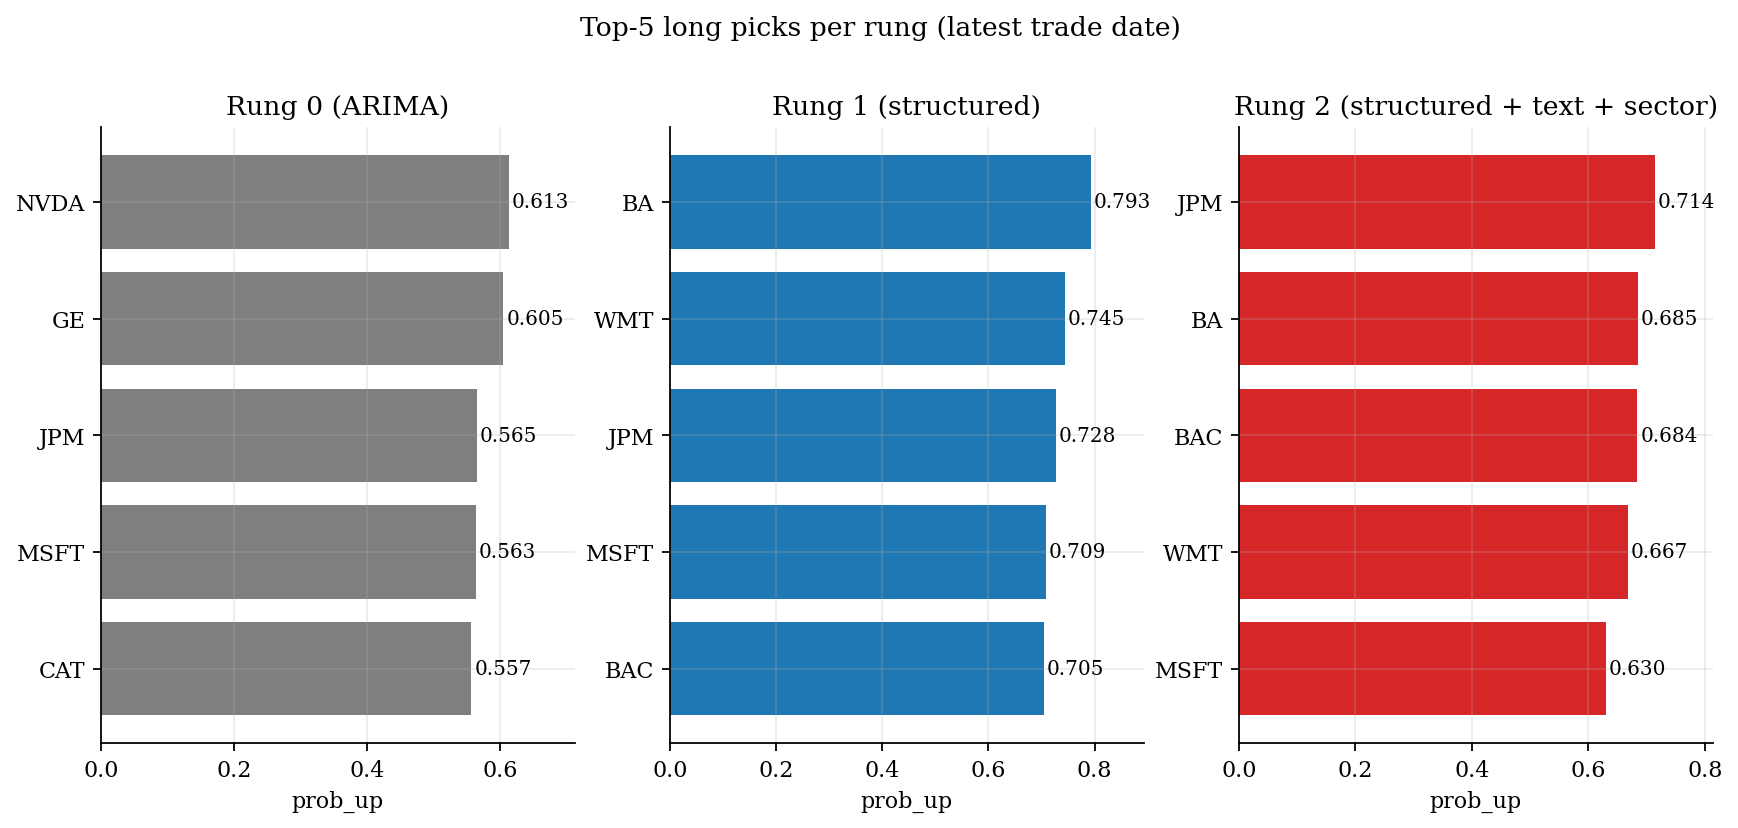
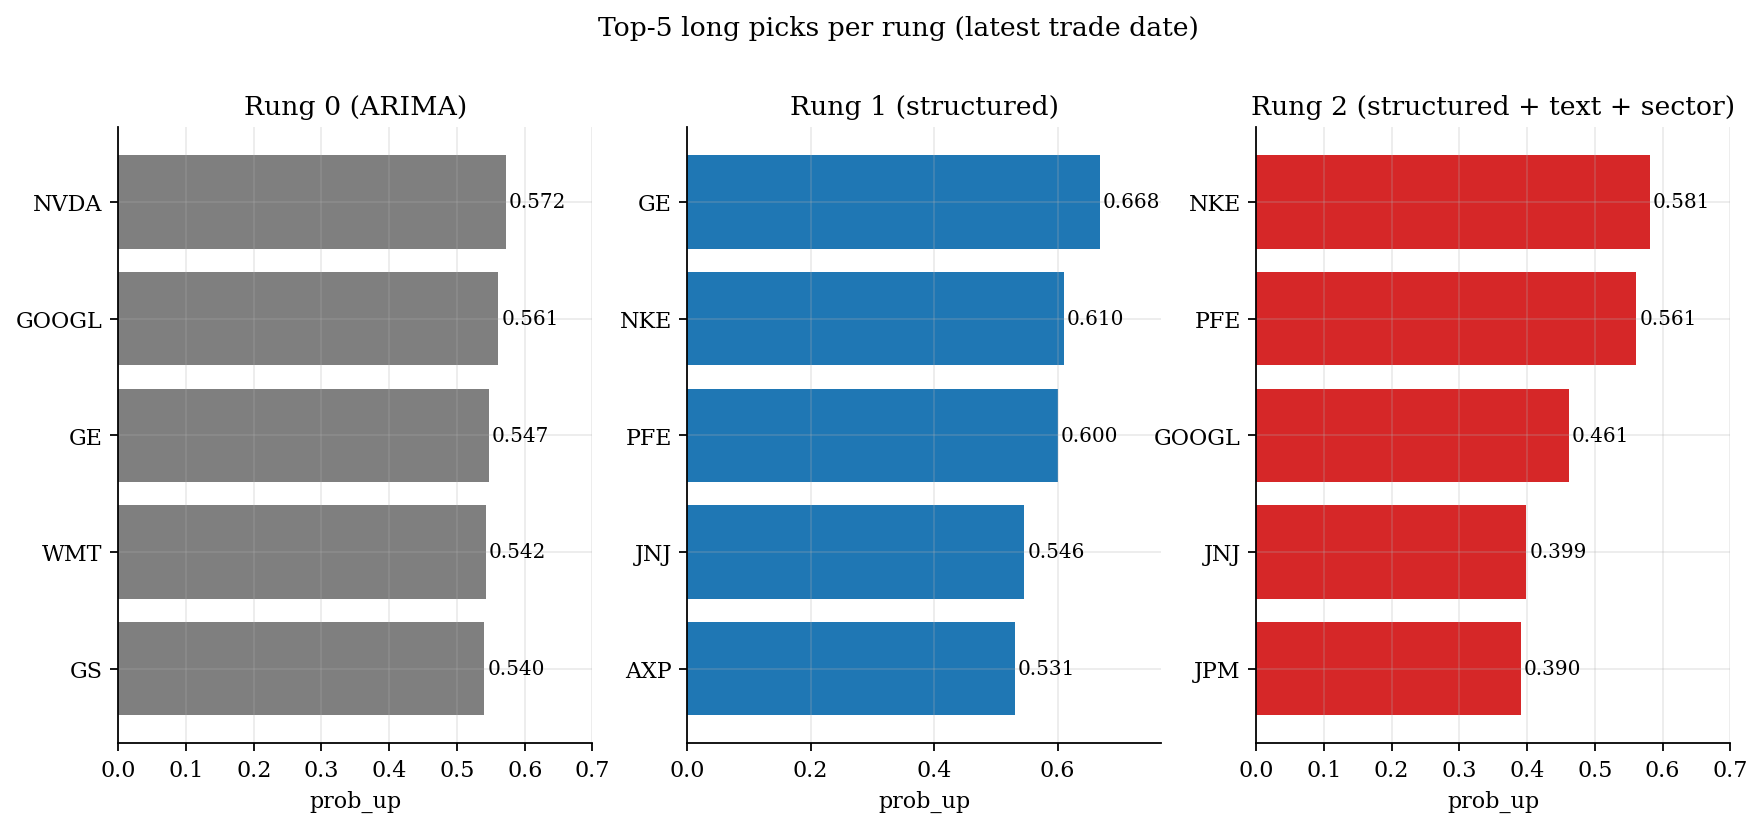
extend(data): pipeline window 2025-12-31 -> 2026-04-30; ARIMA fit-once efficiency
Window extension:
- config/universe.yaml end_date -> 2026-04-30
- ingest/fetch_prices.py end -> 2026-05-01 (includes the closing day)
- ingest/fetch_fundamentals.py limit 20 -> 24 quarters so Q1 2026 lands
- ingest/fetch_news.py limit 200 -> 500 to capture more recent articles
- dbt/models/gold/dim_date.sql generate_series end -> 2026-04-30
- dbt/models/gold/_gold__schema.yml description updated
- models/walkforward.py end -> 2026-04-30 (yields 14 folds: 13 full + 1 partial)

ARIMA correctness + efficiency in models/rung0_arima.py:
- Added DELETE WHERE model_rung = 0 at top of main() so re-runs are idempotent
  (same fix Rung 1 + Rung 2 already had)
- Split predict_5d_direction into fit_arima + predict_from_fitted; the inner
  loop now fits ARIMA ONCE per (stock, fold) and reuses the model for all
  test rows in that fold. Speedup: ~20x for the same predictions (no design
  change - the prior code refit on the same training data each row).

Headline numbers from the 14-fold rebuild (2024-Q1 to 2026-Q2 OOS):
  Rung 0 (ARIMA):       AUC 0.5116, cum return +70.2%, Sharpe 2.33
  Rung 1 (15 + 5 fund): AUC 0.5159, cum return +94.0%, Sharpe 1.56
  Rung 2 (44 features): AUC 0.5238, cum return +129.6%, Sharpe 1.95
  Equal-weight benchmark:           cum return +65.3%

  Paired Wilcoxon (R2 - R1) over 14 folds: +0.0078, p = 0.36 (not significant)
  Both rungs beat the benchmark (R2 by 64pp, R1 by 29pp linear).

Six BI figures regenerated in backtest/figures/.

diff --git a/models/rung0_arima.py b/models/rung0_arima.py
@@ -16,11 +16,11 @@ from models.walkforward import folds
 
 warnings.filterwarnings("ignore")
 
-def predict_5d_direction(log_returns: pd.Series) -> tuple[float, int]:
-    # Fit ARIMA on log_returns, predict next 5 daily log-returns, sum, return (prob_up, class).
+def fit_arima(log_returns: pd.Series):
+    # Fit ARIMA on the full training series. Returns (model, sigma_5d) or (None, 0).
     series = pd.Series(log_returns).dropna()
     if len(series) < 60:
-        return 0.5, 0
+        return None, 0.0
     try:
         model = auto_arima(
             series,
@@ -32,10 +32,19 @@ def predict_5d_direction(log_returns: pd.Series) -> tuple[float, int]:
             seasonal=False,
             with_intercept=False,
         )
+        sigma_5d = float(series.tail(60).std()) * math.sqrt(5)
+        return model, sigma_5d
+    except Exception:
+        return None, 0.0
+
+
+def predict_from_fitted(model, sigma_5d: float) -> tuple[float, int]:
+    # Use an already-fitted ARIMA to predict next 5 daily log-returns, sum, return (prob_up, class).
+    if model is None:
+        return 0.5, 0
+    try:
         forecast = model.predict(n_periods=5)
         cum = float(np.sum(forecast))
-        # Normalise by train-period 5-day vol so prob is comparable across stocks
-        sigma_5d = float(series.tail(60).std()) * math.sqrt(5)
         z = cum / max(sigma_5d, 1e-6)
         prob_up = 1.0 / (1.0 + math.exp(-z))
         return prob_up, int(prob_up > 0.5)
@@ -87,6 +96,10 @@ def main(max_test_per_stock_per_fold: int = 20) -> None:
     df = load_panel()
     print(f"Loaded {len(df)} panel rows for {df['symbol'].nunique()} stocks")
 
+    # Idempotent: drop any prior Rung 0 predictions so re-runs do not duplicate.
+    with pg_conn() as conn, conn.cursor() as cur:
+        cur.execute("DELETE FROM gold.fct_predictions WHERE model_rung = 0")
+
     for fold in folds():
         train = df[(df["trade_date"] >= fold.train_start) & (df["trade_date"] <= fold.train_end)]
         test  = df[(df["trade_date"] >= fold.test_start) & (df["trade_date"] <= fold.test_end)]
@@ -96,14 +109,16 @@ def main(max_test_per_stock_per_fold: int = 20) -> None:
         preds, labels, pred_rows = [], [], []
         for symbol, sub in tqdm(test.groupby("symbol"), desc=f"rung0 {fold.fold_id}", leave=False):
             train_series = train[train["symbol"] == symbol]["log_ret_1d"]
+            # Fit ARIMA ONCE per (stock, fold) on the training window. All test rows in
+            # the same fold use the same fitted model, since the design uses train-only
+            # data (no rolling refit) for this baseline. ~20x faster than per-row refit.
+            model, sigma_5d = fit_arima(train_series)
             test_sub = sub
             if len(test_sub) > max_test_per_stock_per_fold:
-                # Sample evenly across the test window
                 step = max(1, len(test_sub) // max_test_per_stock_per_fold)
                 test_sub = test_sub.iloc[::step].head(max_test_per_stock_per_fold)
             for _, row in test_sub.iterrows():
-                hist = train_series  # ARIMA fit only on train (no leakage)
-                p, c = predict_5d_direction(hist)
+                p, c = predict_from_fitted(model, sigma_5d)
                 preds.append(p)
                 labels.append(int(row["y_5d_up"]))
                 pred_rows.append((str(row["trade_date"]), row["company_key"], 0, fold.fold_id, float(p), int(c)))

diff --git a/ingest/fetch_fundamentals.py b/ingest/fetch_fundamentals.py
@@ -24,7 +24,7 @@ def fetch_one(symbol: str, endpoint: str) -> list[dict]:
     url = f"{FMP_BASE}/{endpoint}"
     r = requests.get(
         url,
-        params={"apikey": FMP_KEY, "symbol": symbol, "period": "quarter", "limit": 20},
+        params={"apikey": FMP_KEY, "symbol": symbol, "period": "quarter", "limit": 24},
         timeout=30,
     )
     r.raise_for_status()
@@ -51,7 +51,7 @@ def land_one(symbol: str, endpoint: str, payload: list[dict]) -> None:
     out.write_text(json.dumps(payload, indent=2))
 
     if not payload:
-        log_ingest(f"fmp_{endpoint}", symbol, "2021-2025", out, 0)
+        log_ingest(f"fmp_{endpoint}", symbol, "2021-2026-04", out, 0)
         return
 
     raw_keys = list(payload[0].keys())
@@ -91,7 +91,7 @@ def land_one(symbol: str, endpoint: str, payload: list[dict]) -> None:
                 """,
                 tuple(str(row.get(rk)) if row.get(rk) is not None else None for rk in raw_keys),
             )
-    log_ingest(f"fmp_{endpoint}", symbol, "2021-2025", out, len(payload))
+    log_ingest(f"fmp_{endpoint}", symbol, "2021-2026-04", out, len(payload))
 
 def main() -> None:
     for symbol in tqdm(all_tickers(), desc="fundamentals"):

diff --git a/ingest/fetch_prices.py b/ingest/fetch_prices.py
@@ -7,7 +7,7 @@ from tqdm import tqdm
 
 from ingest.common import BRONZE_ROOT, all_tickers, log_ingest, pg_conn
 
-def fetch_one(symbol: str, start: str = "2021-01-01", end: str = "2026-01-01") -> pd.DataFrame:
+def fetch_one(symbol: str, start: str = "2021-01-01", end: str = "2026-05-01") -> pd.DataFrame:
     df = yf.download(
         symbol,
         start=start,
@@ -28,7 +28,7 @@ def land_to_bronze(symbol: str, df: pd.DataFrame):
     out = BRONZE_ROOT / "prices" / f"{symbol}.parquet"
     out.parent.mkdir(parents=True, exist_ok=True)
     df.to_parquet(out, index=False)
-    log_ingest("yfinance_prices", symbol, "2021-2025", out, len(df))
+    log_ingest("yfinance_prices", symbol, "2021-2026-04", out, len(df))
 
 def land_to_raw(symbol: str, df: pd.DataFrame):
     with pg_conn() as conn, conn.cursor() as cur:

diff --git a/ingest/fetch_news.py b/ingest/fetch_news.py
@@ -13,7 +13,7 @@ from ingest.common import BRONZE_ROOT, all_tickers, log_ingest, pg_conn
 FMP_BASE = "https://financialmodelingprep.com/stable"
 FMP_KEY = os.getenv("FMP_API_KEY")
 
-def fetch_one(symbol: str, limit: int = 200) -> list[dict]:
+def fetch_one(symbol: str, limit: int = 500) -> list[dict]:
     # FMP /stable/news/stock: symbols (plural) as query param.
     url = f"{FMP_BASE}/news/stock"
     r = requests.get(

diff --git a/models/walkforward.py b/models/walkforward.py
@@ -14,7 +14,7 @@ class Fold:
 
 def folds(
     start: date = date(2021, 1, 1),
-    end: date = date(2025, 12, 31),
+    end: date = date(2026, 4, 30),
     train_years: int = 3,
     test_quarter_days: int = 63,
     # 10 calendar days = embargo for the 5-trading-day target (~7 cal days)
